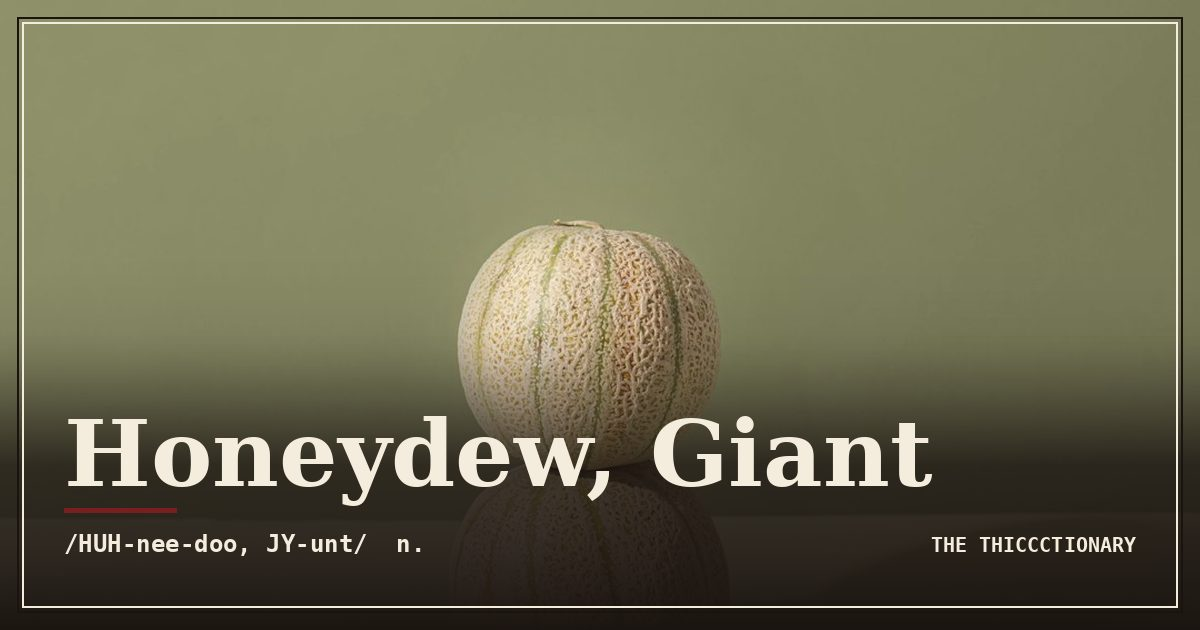
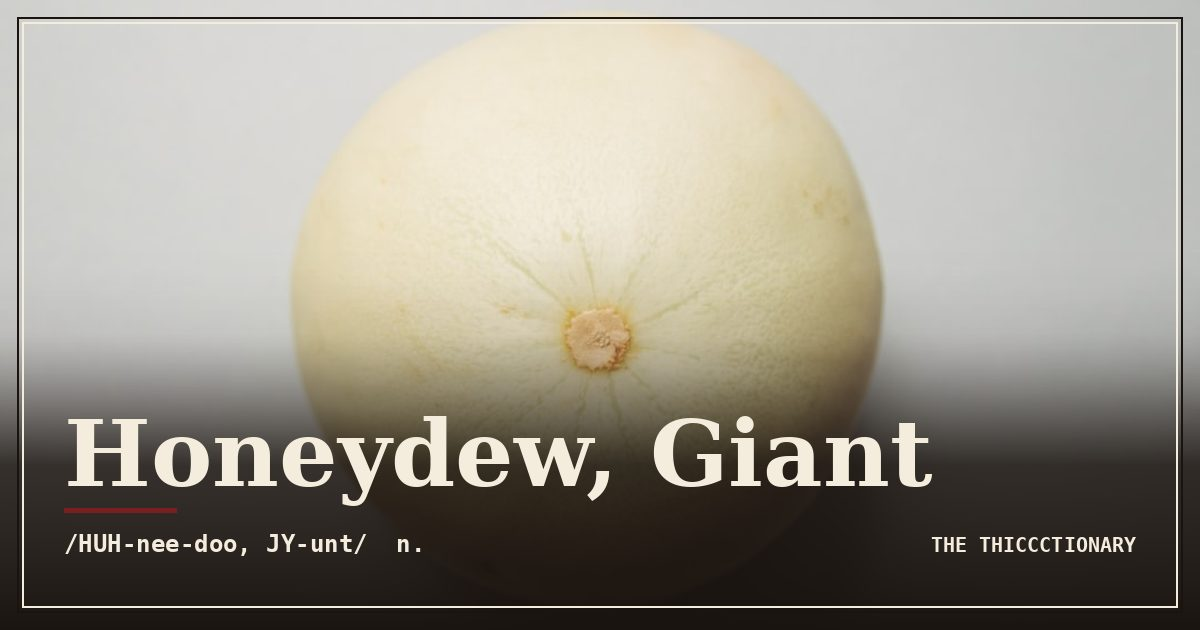
Regenerate images for older entries (tuned prompt)

diff --git a/entries/2026-07-17.html b/entries/2026-07-17.html
@@ -80,7 +80,7 @@
       "headline": "Honeydew, Giant, Thiccctionary",
       "name": "Honeydew, Giant",
       "description": "Giant Honeydew: A melon of considerable diameter and heft, often found lounging in the produce section with an air of unhurried grandeur; esp.",
-      "image": "https://thiccctionary.com/images/2026-07-17-honeydew-giant.jpg",
+      "image": "https://thiccctionary.com/images/2026-07-17-honeydew-giant-2ain.jpg",
       "datePublished": "2026-07-17",
       "dateModified": "2026-07-17",
       "inLanguage": "en-US",
@@ -181,12 +181,12 @@
       <div class="entry-image-wrap">
         <div class="entry-image">
           <picture>
-            <source srcset="../images/2026-07-17-honeydew-giant.webp" type="image/webp" />
-            <img src="../images/2026-07-17-honeydew-giant.jpg" alt="Two diminutive predecessors overshadowed by their larger kin." width="600" height="600" loading="eager" decoding="async" data-pin-do="buttonHover" data-pin-url="https://thiccctionary.com/entries/2026-07-17.html" data-pin-media="https://thiccctionary.com/images/og/2026-07-17.jpg" data-pin-description="Honeydew, Giant, a Thiccctionary entry. A melon of considerable diameter and heft, often found lounging in the produce section with an air of unhurried grandeur; esp. one whose mass challenges the structural integrity of standard…" />
+            <source srcset="../images/2026-07-17-honeydew-giant-2ain.webp" type="image/webp" />
+            <img src="../images/2026-07-17-honeydew-giant-2ain.jpg" alt="A sizeable honeydew melon posed with confidence on an elaborate silver serving platter, for grandeur." width="600" height="600" loading="eager" decoding="async" data-pin-do="buttonHover" data-pin-url="https://thiccctionary.com/entries/2026-07-17.html" data-pin-media="https://thiccctionary.com/images/og/2026-07-17.jpg" data-pin-description="Honeydew, Giant, a Thiccctionary entry. A melon of considerable diameter and heft, often found lounging in the produce section with an air of unhurried grandeur; esp. one whose mass challenges the structural integrity of standard…" />
           </picture>
         </div>
-        <p class="entry-caption">Plate XCVIII., Two diminutive predecessors overshadowed by their larger kin.</p>
-        <p class="entry-credit">Photo by <a href="https://unsplash.com/@nillufar?utm_source=thiccctionary&amp;utm_medium=referral" target="_blank" rel="noopener">nilufar nattaq</a> on <a href="https://unsplash.com/?utm_source=thiccctionary&utm_medium=referral" target="_blank" rel="noopener">Unsplash</a></p>
+        <p class="entry-caption">Plate XCVIII., A sizeable honeydew melon posed with confidence on an elaborate silver serving platter, for grandeur.</p>
+        <p class="entry-credit">Photo by <a href="https://unsplash.com/@charlesdeluvio?utm_source=thiccctionary&amp;utm_medium=referral" target="_blank" rel="noopener">charlesdeluvio</a> on <a href="https://unsplash.com/?utm_source=thiccctionary&utm_medium=referral" target="_blank" rel="noopener">Unsplash</a></p>
       </div>
 
       <div class="entry-text">
@@ -254,7 +254,7 @@
     <section class="entry-sources" aria-label="Sources and editorial notes" style="margin: 56px 0 0; padding: 28px 24px; border-top: 1px solid var(--rule); font-size: 14px; line-height: 1.6;">
     <h3 style="font-family: var(--font-mono); font-size: 11px; letter-spacing: 0.2em; text-transform: uppercase; color: var(--oxblood); margin: 0 0 1rem; font-weight: 600;">Sources</h3>
     <ol style="margin: 0; padding-left: 1.5rem; color: var(--ink-soft);">
-      <li style="margin-bottom: 0.5rem;">Photograph by <a href="https://unsplash.com/@nillufar" target="_blank" rel="noopener">nilufar nattaq</a>, via <a href="https://unsplash.com/photos/two-small-ribbed-melons-stacked-on-a-green-surface-u9R3HXyKVEU" target="_blank" rel="noopener">Unsplash</a>. Catalogued under plate XCVIII.</li>
+      <li style="margin-bottom: 0.5rem;">Photograph by <a href="https://unsplash.com/@charlesdeluvio" target="_blank" rel="noopener">charlesdeluvio</a>, via <a href="https://unsplash.com/photos/round-brown-fruit-placed-on-white-surface-yqzRIbL9-tY" target="_blank" rel="noopener">Unsplash</a>. Catalogued under plate XCVIII.</li>
       <li style="margin-bottom: 0.5rem;">Direct ruling URL: <a href="../is/honeydew-thiccc/">thiccctionary.com/is/honeydew-thiccc/</a> &mdash; the shareable "Is a honeydew thiccc?" page.</li>
       <li style="margin-bottom: 0.5rem;">Cross-reference: <a href="../a-z.html#H">Thiccctionary A-Z, H</a>.</li>
       <li style="margin-bottom: 0.5rem;">Catalogued under: <a href="../category/produce/">Produce &amp; Botanical</a>. See related entries below.</li>

diff --git a/is/honeydew-thiccc/index.html b/is/honeydew-thiccc/index.html
@@ -43,7 +43,7 @@
       "url": "https://thiccctionary.com/is/honeydew-thiccc/",
       "headline": "Is a Honeydew thiccc?",
       "description": "Yes, a honeydew is officially thiccc per the Thiccctionary. A melon of considerable diameter and heft, often found lounging in the produce section with an…",
-      "image": "https://thiccctionary.com/images/2026-07-17-honeydew-giant.jpg",
+      "image": "https://thiccctionary.com/images/2026-07-17-honeydew-giant-2ain.jpg",
       "datePublished": "2026-07-17",
       "author": {
         "@type": "Organization",
@@ -167,11 +167,11 @@
       <div class="entry-image-wrap">
         <div class="entry-image">
           <picture>
-            <source srcset="/images/2026-07-17-honeydew-giant.webp" type="image/webp" />
-            <img src="/images/2026-07-17-honeydew-giant.jpg" alt="Honeydew, a thiccc subject" width="600" height="600" loading="eager" decoding="async" />
+            <source srcset="/images/2026-07-17-honeydew-giant-2ain.webp" type="image/webp" />
+            <img src="/images/2026-07-17-honeydew-giant-2ain.jpg" alt="Honeydew, a thiccc subject" width="600" height="600" loading="eager" decoding="async" />
           </picture>
         </div>
-        <p class="entry-caption">Plate XCVIII., Two diminutive predecessors overshadowed by their larger kin.</p>
+        <p class="entry-caption">Plate XCVIII., A sizeable honeydew melon posed with confidence on an elaborate silver serving platter, for grandeur.</p>
       </div>
 
       <div class="entry-text">

diff --git a/category/produce/index.html b/category/produce/index.html
@@ -262,7 +262,7 @@
   </li>
   <li class="cat-card">
     <a href="/entries/2026-07-17.html">
-      <img src="/images/2026-07-17-honeydew-giant.jpg" alt="Two diminutive predecessors overshadowed by their larger kin." loading="lazy" width="800" height="600" />
+      <img src="/images/2026-07-17-honeydew-giant-2ain.jpg" alt="A sizeable honeydew melon posed with confidence on an elaborate silver serving platter, for grandeur." loading="lazy" width="800" height="600" />
       <div class="cat-card-body">
         <p class="cat-card-word">Honeydew, Giant</p>
         <p class="cat-card-def">A melon of considerable diameter and heft, often found lounging in the produce section with an air of unhurried grandeur; esp.</p>

diff --git a/index.html b/index.html
@@ -276,7 +276,7 @@
         </div>
       </a>
       <a class="recent-card" href="entries/2026-07-17.html">
-        <div class="recent-thumb" style="background-image: url('images/2026-07-17-honeydew-giant.jpg'); background-size: cover; background-position: center;"></div>
+        <div class="recent-thumb" style="background-image: url('images/2026-07-17-honeydew-giant-2ain.jpg'); background-size: cover; background-position: center;"></div>
         <div class="recent-meta">
           <span class="recent-date">Jul 17</span>
           <h4 class="recent-word">Honeydew, Giant</h4>
